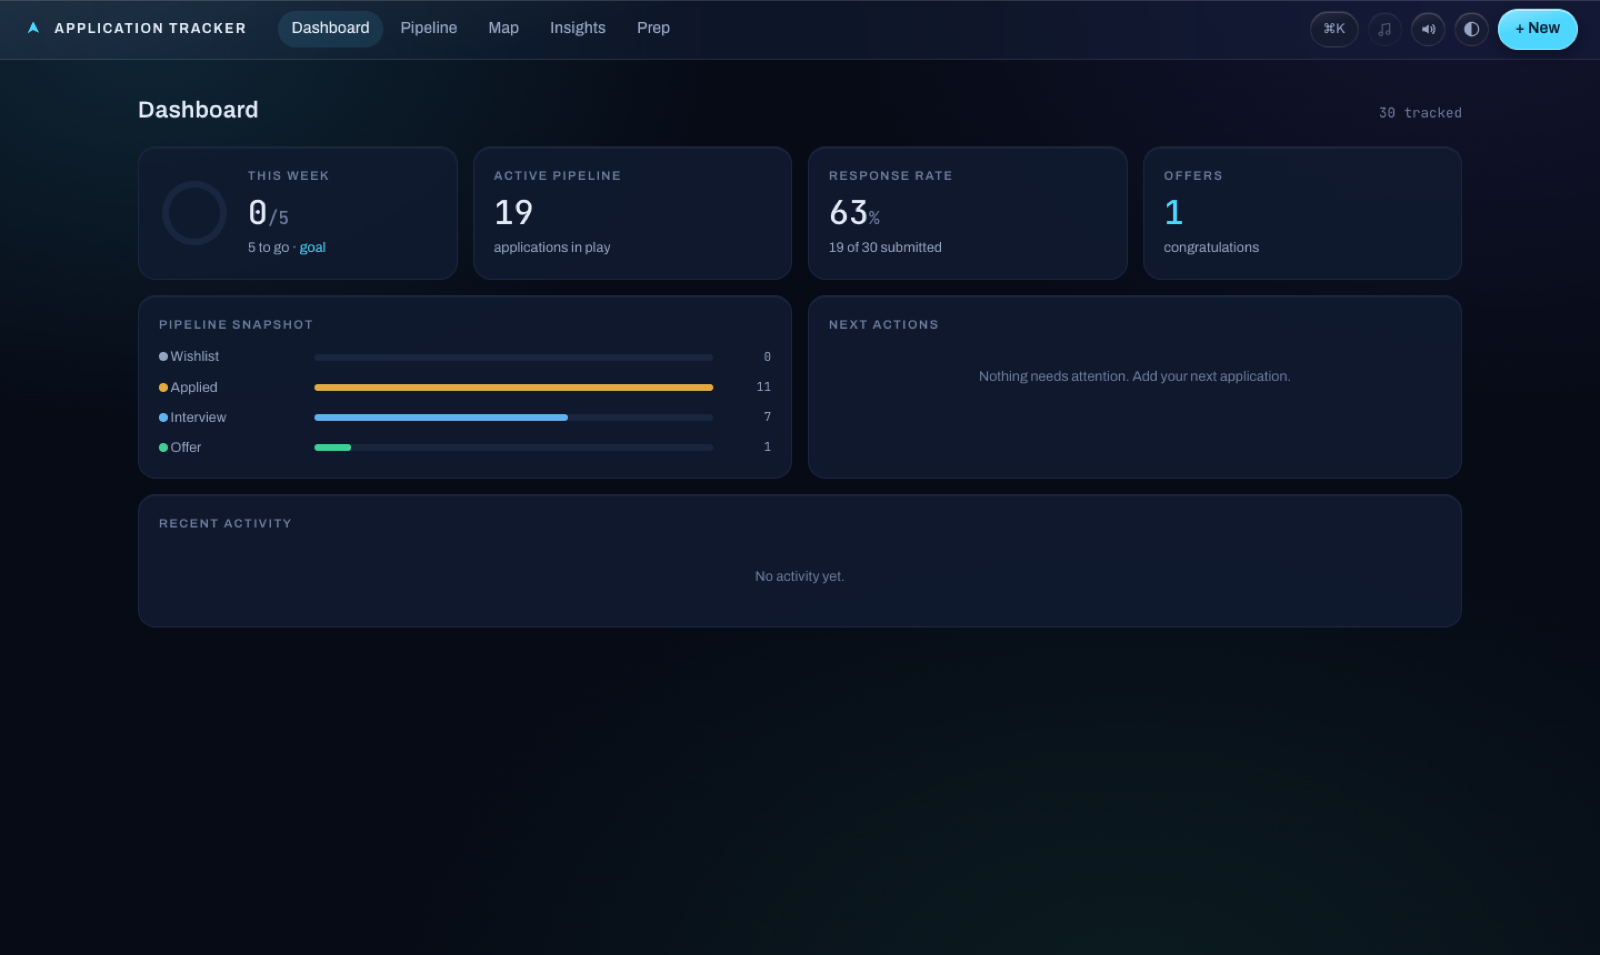
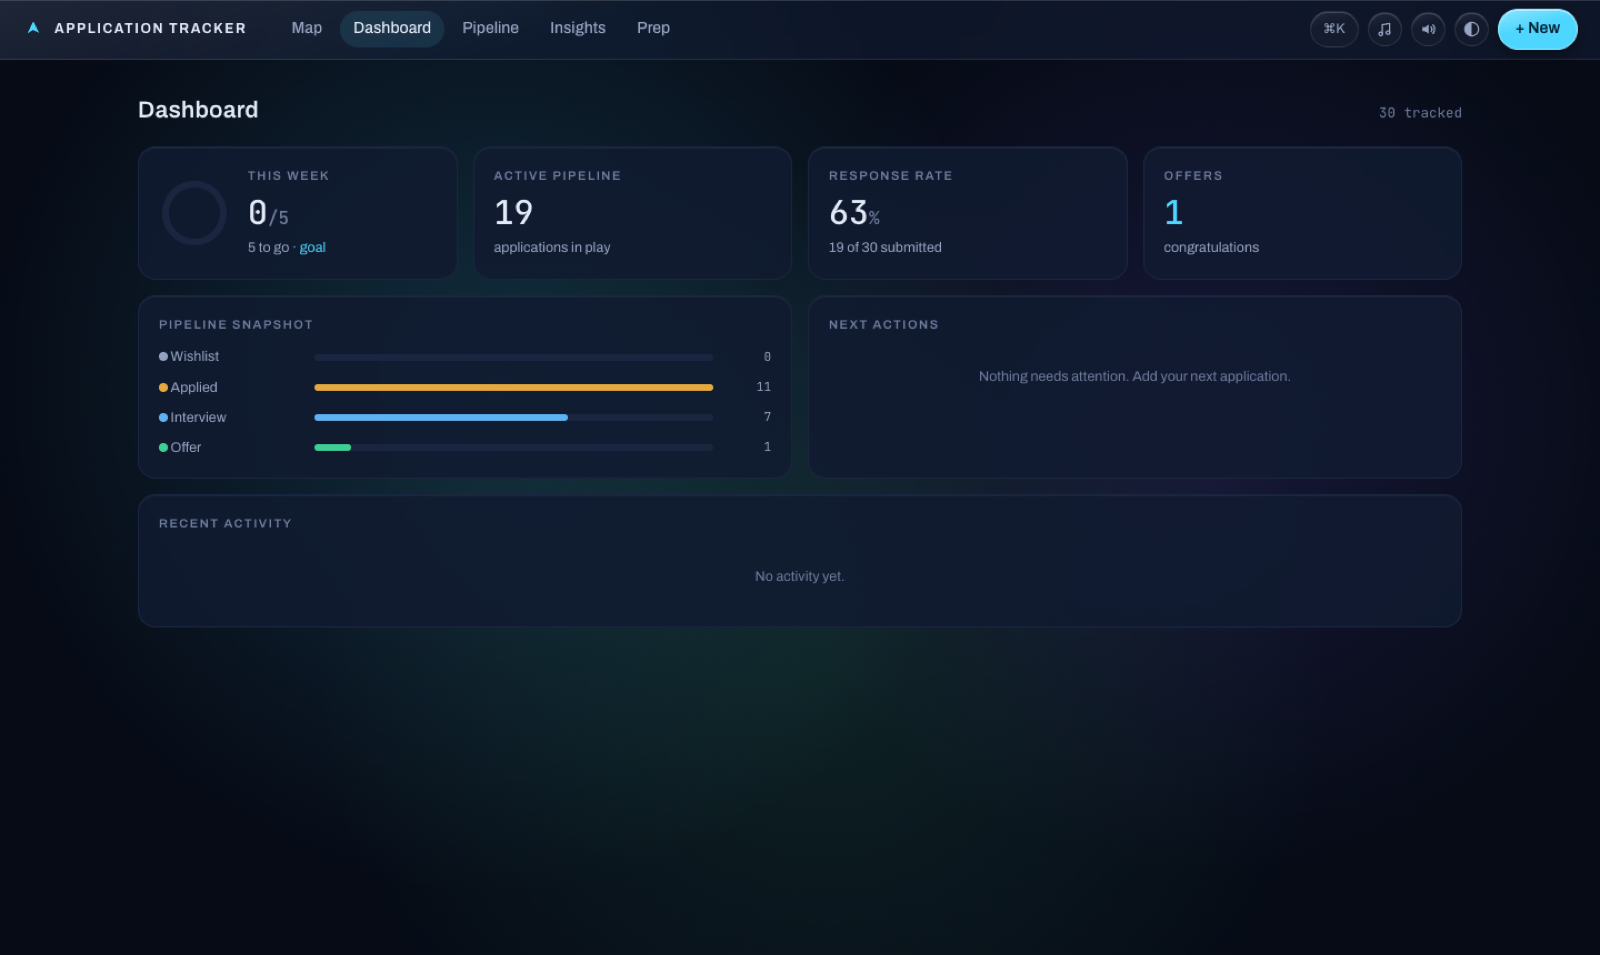
Demo lands on the space globe; Map-first nav; living aurora backdrop
- Demo: dark theme default restored, first sight is the Map view's
  space-to-Earth entrance; ambient music stays default-on (first gesture)
- Nav reordered Map first everywhere; number-key shortcuts and palette
  order follow
- Ambient backdrop upgraded from a single slow drift to three color
  fields breathing on independent 38/52/64s clocks (transform-only,
  frozen by prefers-reduced-motion) — livelier dashboard/pipeline/
  insights/prep in both themes and both builds
- Screenshots refreshed

diff --git a/static/css/app.css b/static/css/app.css
@@ -44,9 +44,9 @@
   --glass-shadow: 0 18px 48px rgba(0, 0, 0, .5);
   --glass-blur: 24px;
   --glass-saturate: 1.6;
-  --ambient-a: rgba(77, 214, 255, .13);
-  --ambient-b: rgba(125, 95, 255, .11);
-  --ambient-c: rgba(70, 201, 141, .09);
+  --ambient-a: rgba(77, 214, 255, .17);
+  --ambient-b: rgba(125, 95, 255, .15);
+  --ambient-c: rgba(70, 201, 141, .12);
 }
 
 [data-theme="light"] {
@@ -68,9 +68,9 @@
   --glass-line: rgba(24, 33, 54, .10);
   --glass-highlight: rgba(255, 255, 255, .9);
   --glass-shadow: 0 18px 44px rgba(24, 33, 54, .16);
-  --ambient-a: rgba(77, 180, 255, .20);
-  --ambient-b: rgba(150, 120, 255, .16);
-  --ambient-c: rgba(80, 210, 160, .15);
+  --ambient-a: rgba(77, 180, 255, .26);
+  --ambient-b: rgba(150, 120, 255, .20);
+  --ambient-c: rgba(80, 210, 160, .19);
   --s-wishlist: #6b7a9c;
   --s-applied: #b07f17;
   --s-screen: #2270c4;
@@ -86,22 +86,67 @@ html, body {
   height: 100%;
 }
 
-body::before {
-  content: "";
+/* Living aurora backdrop: three color fields breathing on their own
+   clocks. Pure transforms on soft radial gradients — no filters, GPU-only,
+   and the reduced-motion kill-switch freezes them. */
+
+.ambient {
   position: fixed;
-  inset: -8%;
+  inset: 0;
   z-index: -1;
-  background:
-    radial-gradient(42% 48% at 16% 10%, var(--ambient-a), transparent 72%),
-    radial-gradient(46% 52% at 86% 6%, var(--ambient-b), transparent 72%),
-    radial-gradient(55% 60% at 68% 96%, var(--ambient-c), transparent 72%);
-  animation: ambient-drift 52s ease-in-out infinite;
+  pointer-events: none;
+  overflow: hidden;
+}
+
+.ambient i {
+  position: absolute;
+  border-radius: 50%;
   will-change: transform;
 }
 
-@keyframes ambient-drift {
-  0%, 100% { transform: translate3d(0, 0, 0) scale(1); }
-  50% { transform: translate3d(-2.2%, 1.8%, 0) scale(1.07); }
+.ambient i:nth-child(1) {
+  width: 62vw;
+  height: 62vw;
+  left: -14%;
+  top: -22%;
+  background: radial-gradient(circle, var(--ambient-a), transparent 62%);
+  animation: blob-a 38s ease-in-out infinite alternate;
+}
+
+.ambient i:nth-child(2) {
+  width: 56vw;
+  height: 56vw;
+  right: -16%;
+  top: -14%;
+  background: radial-gradient(circle, var(--ambient-b), transparent 62%);
+  animation: blob-b 52s ease-in-out infinite alternate;
+}
+
+.ambient i:nth-child(3) {
+  width: 68vw;
+  height: 68vw;
+  left: 28%;
+  bottom: -34%;
+  background: radial-gradient(circle, var(--ambient-c), transparent 62%);
+  animation: blob-c 64s ease-in-out infinite alternate;
+}
+
+@keyframes blob-a {
+  0% { transform: translate3d(0, 0, 0) scale(1); }
+  45% { transform: translate3d(14vw, 10vh, 0) scale(1.18); }
+  100% { transform: translate3d(4vw, 26vh, 0) scale(0.92); }
+}
+
+@keyframes blob-b {
+  0% { transform: translate3d(0, 0, 0) scale(1); }
+  50% { transform: translate3d(-16vw, 14vh, 0) scale(1.22); }
+  100% { transform: translate3d(-5vw, 4vh, 0) scale(0.95); }
+}
+
+@keyframes blob-c {
+  0% { transform: translate3d(0, 0, 0) scale(1); }
+  50% { transform: translate3d(-18vw, -12vh, 0) scale(1.12); }
+  100% { transform: translate3d(10vw, -4vh, 0) scale(1.02); }
 }
 
 body {

diff --git a/demo/index.html b/demo/index.html
@@ -1,5 +1,5 @@
 <!DOCTYPE html>
-<html lang="en" data-theme="light">
+<html lang="en" data-theme="dark">
 <head>
   <meta charset="utf-8">
   <meta name="viewport" content="width=device-width, initial-scale=1">
@@ -13,6 +13,7 @@
   <script src="shim.js"></script>
 </head>
 <body>
+  <div class="ambient" aria-hidden="true"><i></i><i></i><i></i></div>
   <div id="banner" class="banner" hidden></div>
 
   <header class="topbar">
@@ -21,9 +22,9 @@
       <span class="brand-name">APPLICATION TRACKER</span>
     </a>
     <nav class="nav" role="tablist" aria-label="Views">
+      <a href="#/map"       data-view="map"       role="tab">Map</a>
       <a href="#/dashboard" data-view="dashboard" role="tab">Dashboard</a>
       <a href="#/pipeline"  data-view="pipeline"  role="tab">Pipeline</a>
-      <a href="#/map"       data-view="map"       role="tab">Map</a>
       <a href="#/insights"  data-view="insights"  role="tab">Insights</a>
       <a href="#/prep"      data-view="prep"      role="tab">Prep</a>
     </nav>

diff --git a/static/index.html b/static/index.html
@@ -12,6 +12,7 @@
   <link href="css/app.css" rel="stylesheet">
 </head>
 <body>
+  <div class="ambient" aria-hidden="true"><i></i><i></i><i></i></div>
   <div id="banner" class="banner" hidden></div>
 
   <header class="topbar">
@@ -20,9 +21,9 @@
       <span class="brand-name">APPLICATION TRACKER</span>
     </a>
     <nav class="nav" role="tablist" aria-label="Views">
+      <a href="#/map"       data-view="map"       role="tab">Map</a>
       <a href="#/dashboard" data-view="dashboard" role="tab">Dashboard</a>
       <a href="#/pipeline"  data-view="pipeline"  role="tab">Pipeline</a>
-      <a href="#/map"       data-view="map"       role="tab">Map</a>
       <a href="#/insights"  data-view="insights"  role="tab">Insights</a>
       <a href="#/prep"      data-view="prep"      role="tab">Prep</a>
     </nav>

diff --git a/static/js/components/palette.js b/static/js/components/palette.js
@@ -11,9 +11,9 @@ let active = 0;
 
 function commands() {
   const nav = [
-    { kind: 'go', label: 'Dashboard', run: () => (location.hash = '#/dashboard'), hint: '1' },
-    { kind: 'go', label: 'Pipeline', run: () => (location.hash = '#/pipeline'), hint: '2' },
-    { kind: 'go', label: 'Map', run: () => (location.hash = '#/map'), hint: '3' },
+    { kind: 'go', label: 'Map', run: () => (location.hash = '#/map'), hint: '1' },
+    { kind: 'go', label: 'Dashboard', run: () => (location.hash = '#/dashboard'), hint: '2' },
+    { kind: 'go', label: 'Pipeline', run: () => (location.hash = '#/pipeline'), hint: '3' },
     { kind: 'go', label: 'Insights', run: () => (location.hash = '#/insights'), hint: '4' },
     { kind: 'go', label: 'Prep', run: () => (location.hash = '#/prep'), hint: '5' },
   ];

diff --git a/static/js/main.js b/static/js/main.js
@@ -112,7 +112,7 @@ document.addEventListener('keydown', (e) => {
 
   if (e.key === 'n' || e.key === 'N') { e.preventDefault(); openAddFlow(); }
   else if (e.key >= '1' && e.key <= '5') {
-    location.hash = '#/' + ['dashboard', 'pipeline', 'map', 'insights', 'prep'][Number(e.key) - 1];
+    location.hash = '#/' + ['map', 'dashboard', 'pipeline', 'insights', 'prep'][Number(e.key) - 1];
   }
 });
 

diff --git a/demo/shim.js b/demo/shim.js
@@ -5,6 +5,8 @@
   // Demo defaults: ambient music on (it starts at the visitor's first
   // click/keypress — browsers forbid audio before a user gesture).
   window.APPTRACKER_DEFAULTS = { music: true };
+  // The demo's first sight is the space globe.
+  if (!location.hash) location.hash = '#/map';
   const realFetch = window.fetch.bind(window);
   let db = null;
   let nextId = 1;
